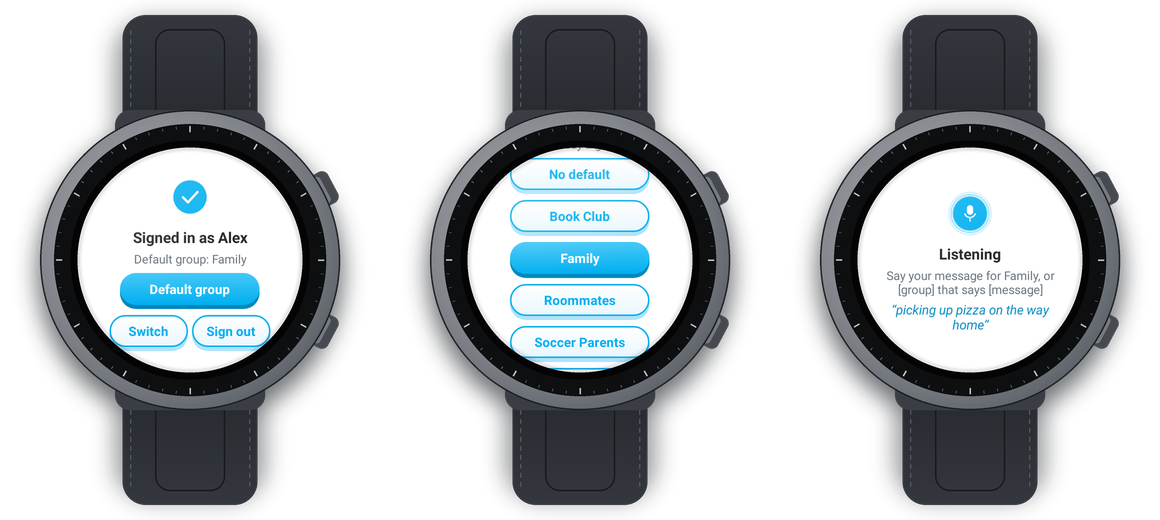
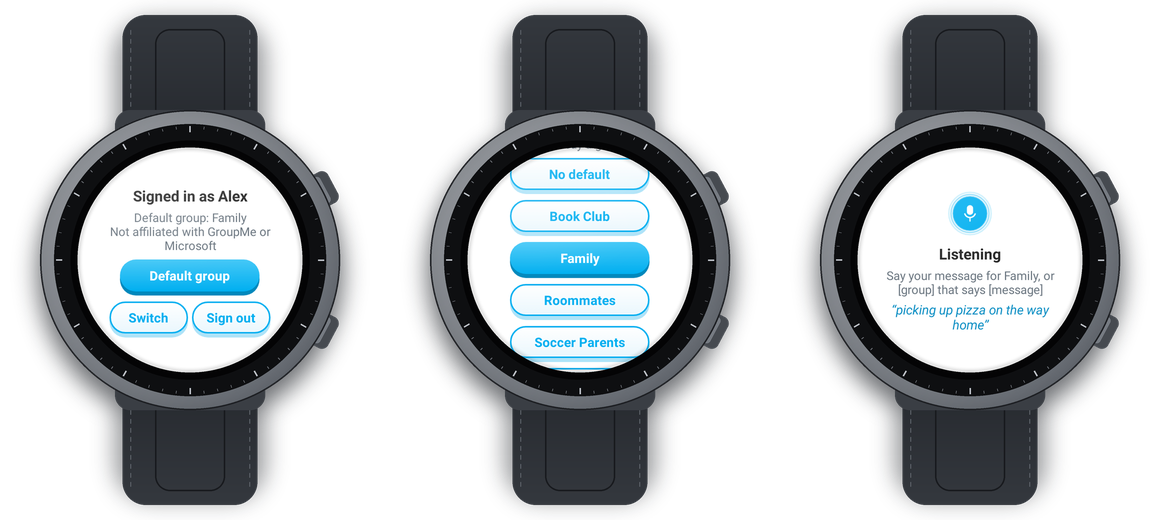
Not affiliated with GroupMe or Microsoft

Changed region(s): [[0.0931, 0.3385, 0.2483, 0.6769]]

diff --git a/docs/index.html b/docs/index.html
@@ -153,6 +153,7 @@
       <div id="status" role="status" aria-live="polite"></div>
     </section>
 
+    <p class="fine"><b>Not affiliated with GroupMe or Microsoft.</b> GroupMe Voice is an independent, open-source project.</p>
     <p class="fine">Your token is locked with your watch's code before it leaves this page, and only your
       watch can unlock it. It's never stored here. <a href="https://github.com/peterchabs/groupme-voice-android">How it works</a></p>
   </div>

diff --git a/watch-app/app/src/main/java/io/github/peterchabs/groupmevoice/Stage.java b/watch-app/app/src/main/java/io/github/peterchabs/groupmevoice/Stage.java
@@ -23,6 +23,7 @@ final class Stage {
     private static final DecelerateInterpolator EASE = new DecelerateInterpolator(1.6f);
 
     final OrbView orb;
+    private final FrameLayout hero;
     private final boolean watch, card;
     private final int unit; // width everything is sized from (the card width on a phone)
     private final float textScale;
@@ -52,7 +53,7 @@ final class Stage {
         if (!watch) col.setPadding((int) (24 * dp), (int) (22 * dp), (int) (24 * dp), (int) (26 * dp));
         else col.setPadding(pad, (int) (w * 0.1f), pad, (int) (w * 0.1f));
 
-        FrameLayout hero = new FrameLayout(a);
+        hero = new FrameLayout(a);
         orb = new OrbView(a);
         Press.attach(orb); // the orb is tappable (tap to talk), so it squishes too
         qr = new ImageView(a);
@@ -113,6 +114,7 @@ final class Stage {
     /** Change the whole screen. Buttons are pairs of (label, Runnable); the first is the main one. */
     Stage show(OrbView.Mode mode, String t, String s, Object... buttons) {
         gen++;
+        hero.setVisibility(View.VISIBLE);
         if (orb.mode() != mode) orb.setMode(mode);
         title.setTextSize((t != null && t.length() > 34 ? 13 : 15) * textScale); // long titles shrink to fit the round screen
         swap(title, t);
@@ -165,6 +167,12 @@ final class Stage {
             scroll.post(() -> scroll.smoothScrollTo(0,
                     Math.max(0, actions.getTop() + c.getTop() - scroll.getHeight() / 2 + c.getHeight() / 2)));
         }
+        return this;
+    }
+
+    /** Hide the orb/QR for this screen only (room for more text on a round watch). */
+    Stage hideHero() {
+        hero.setVisibility(View.GONE);
         return this;
     }
 

diff --git a/watch-app/app/src/main/java/io/github/peterchabs/groupmevoice/SetupActivity.java b/watch-app/app/src/main/java/io/github/peterchabs/groupmevoice/SetupActivity.java
@@ -82,7 +82,7 @@ public class SetupActivity extends Activity {
         String who = Store.name(this);
         Phrase.Group d = Store.defaultGroup(this);
         stage.show(OrbView.Mode.DONE, who.isEmpty() ? "Signed in" : "Signed in as " + who,
-                "Default group: " + (d == null ? "none" : d.name),
+                "Default group: " + (d == null ? "none" : d.name) + "\nNot affiliated with GroupMe or Microsoft",
                 // no Back button: swiping right goes back on Wear OS, and four buttons don't fit
                 "Default group", (Runnable) this::pickDefault,
                 "Switch", (Runnable) this::startLink,
@@ -90,6 +90,7 @@ public class SetupActivity extends Activity {
                     Store.clear(this);
                     startLink();
                 });
+        if (isWatch()) stage.hideHero(); // room for the not-affiliated line on a round screen
     }
 
     // ---------------- default group ----------------
@@ -152,7 +153,8 @@ public class SetupActivity extends Activity {
             stage.showOrb();
             stage.show(OrbView.Mode.IDLE, "Sign in to GroupMe",
                     "Sign in with GroupMe is easiest. It returns through a page hosted on GitHub,"
-                            + " which receives your sign-in in its logs. Pasting your token avoids that.",
+                            + " which receives your sign-in in its logs. Pasting your token avoids that."
+                            + "\n\nNot affiliated with GroupMe or Microsoft.",
                     "Sign in with GroupMe", (Runnable) () -> {
                         openPage(link);
                         final long started = System.currentTimeMillis();

diff --git a/README.md b/README.md
@@ -1,5 +1,7 @@
 # GroupMe Voice
 
+> **Not affiliated with GroupMe or Microsoft.** This is an independent, free, open-source project. GroupMe is a trademark of Microsoft.
+
 Send a GroupMe message just by talking to your **Galaxy Watch** or **Android phone**.
 
 You say: **"Hey Google, open GroupMe Voice"**
@@ -555,4 +557,9 @@ GroupMe sign-in, your groups, or your messages.
   watch apps), [`docs/index.html`](docs/index.html) (sign-in page),
   [`groupme_send.py`](groupme_send.py) (Tasker version).
 
-This project is not made by or connected to GroupMe or Microsoft.
+## Not affiliated with GroupMe or Microsoft
+
+GroupMe Voice is an independent project. It is not made, endorsed, or supported by
+GroupMe or Microsoft. GroupMe is a trademark of Microsoft Corporation, and the name
+is used here only to say which service the app works with. For help with your
+GroupMe account itself, contact GroupMe.
